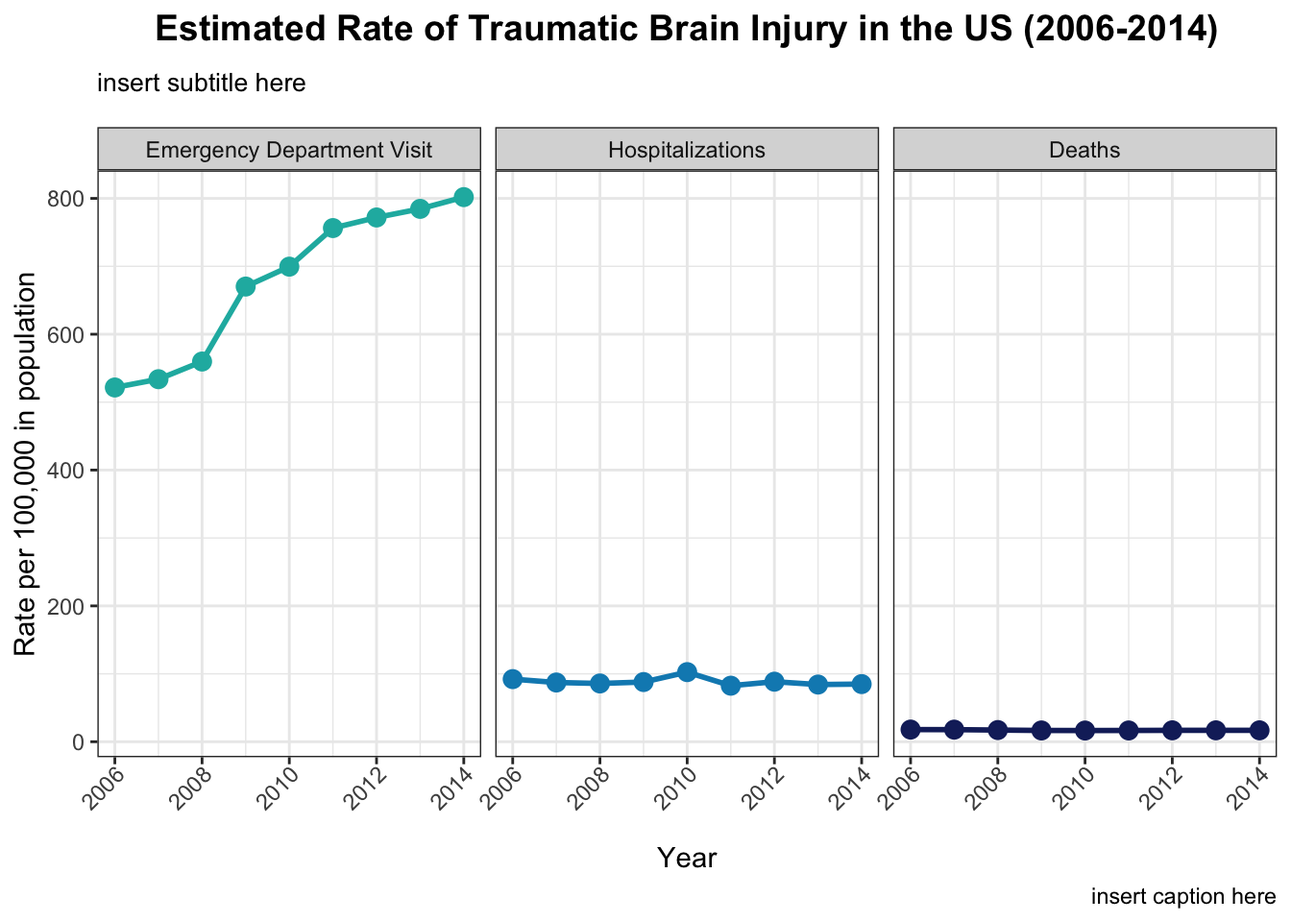
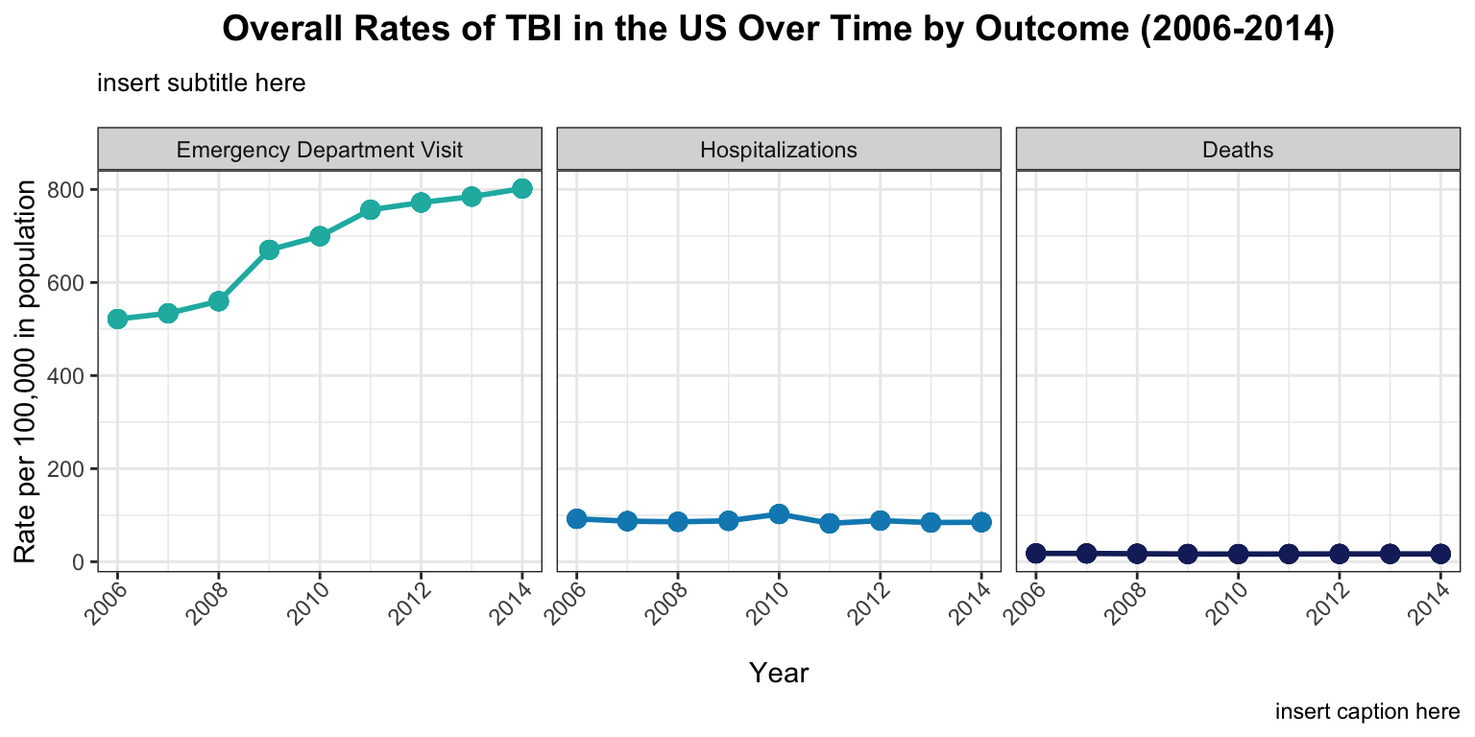
analysis edits v2

diff --git a/_site/example-analysis.html b/_site/example-analysis.html
@@ -150,8 +150,17 @@ pre > code.sourceCode > span > a:first-child::before { text-decoration: underlin
 <div id="quarto-content" class="quarto-container page-columns page-rows-contents page-layout-article page-navbar">
 <!-- sidebar -->
 <!-- margin-sidebar -->
-    <div id="quarto-margin-sidebar" class="sidebar margin-sidebar zindex-bottom">
-        
+    <div id="quarto-margin-sidebar" class="sidebar margin-sidebar">
+        <nav id="TOC" role="doc-toc" class="toc-active">
+    <h2 id="toc-title">On this page</h2>
+   
+  <ul>
+  <li><a href="#question" id="toc-question" class="nav-link active" data-scroll-target="#question"><span style="color:  #2D4947;">Question</span></a></li>
+  <li><a href="#analysis" id="toc-analysis" class="nav-link" data-scroll-target="#analysis"><span style="color:  #2D4947;">Analysis</span></a></li>
+  <li><a href="#summary-of-results" id="toc-summary-of-results" class="nav-link" data-scroll-target="#summary-of-results"><span style="color:  #2D4947;">Summary of Results</span></a></li>
+  <li><a href="#functions-used" id="toc-functions-used" class="nav-link" data-scroll-target="#functions-used"><span style="color:  #2D4947;">Functions Used</span></a></li>
+  </ul>
+</nav>
     </div>
 <!-- main -->
 <main class="content" id="quarto-document-content">
@@ -175,16 +184,18 @@ pre > code.sourceCode > span > a:first-child::before { text-decoration: underlin
 </header>
 
 
-<p><strong><span style="color:  #2D4947;">Question:</span></strong> <em>How has the prevalence of traumatic brain injuries (TBI) changed over time between 2006 and 2014, and how do different mechanisms of injury relate to patient outcomes?</em></p>
-<p><strong><span style="color:  #68A39F;">Audience:</span></strong> The general public who are interested in learning more about the relatively recent history of TBI trends and outcomes .</p>
-<p><strong><span style="color:  #68A39F;">Data Source:</span></strong> This analysis will use data from the Traumatic Brain Injury (TBI) data set posted by the TidyTuesday project from the Data Science Learning Community. This was originally collected to spread awareness about the incidence and causes of brain injury in America. The specific data used in this analysis was sourced from the <a href="https://www.cdc.gov/traumaticbraininjury/pdf/TBI-Surveillance-Report-FINAL_508.pdf">CDC</a>.</p>
-<div class="callout callout-style-default callout-note callout-titled">
+<section id="question" class="level2">
+<h2 class="anchored" data-anchor-id="question"><span style="color:  #2D4947;">Question</span></h2>
+<p><strong>The goal is to have a better understanding of traumatic brain injury (TBI) trends and how different causes lead to different outcomes in certain populations. Specifically, how has the incidence of TBI changed over time between 2006 and 2014? How do different mechanisms of injury relate to patient outcomes, and does this differ by age?</strong></p>
+<p><span style="color:  #68A39F;"><strong>Audience:</strong></span> The general public who are interested in learning more about the relatively recent history of TBI trends and outcomes .</p>
+<p><span style="color:  #68A39F;"><strong>Data Source:</strong></span> This analysis will use data from the Traumatic Brain Injury (TBI) data set posted by the TidyTuesday project from the Data Science Learning Community. This was originally collected to spread awareness about the incidence and causes of brain injury in America. The specific data used in this analysis was sourced from the <a href="https://www.cdc.gov/traumaticbraininjury/pdf/TBI-Surveillance-Report-FINAL_508.pdf">CDC</a>.</p>
+<div class="callout callout-style-default callout-important callout-titled">
 <div class="callout-header d-flex align-content-center">
 <div class="callout-icon-container">
 <i class="callout-icon"></i>
 </div>
 <div class="callout-title-container flex-fill">
-Note
+Important
 </div>
 </div>
 <div class="callout-body-container callout-body">
@@ -196,40 +207,55 @@ Note
 <span id="cb1-2"><a href="#cb1-2" aria-hidden="true" tabindex="-1"></a>tbi_age <span class="ot">&lt;-</span> readr<span class="sc">::</span><span class="fu">read_csv</span>(<span class="st">'https://raw.githubusercontent.com/rfordatascience/tidytuesday/main/data/2020/2020-03-24/tbi_age.csv'</span>)</span>
 <span id="cb1-3"><a href="#cb1-3" aria-hidden="true" tabindex="-1"></a>tbi_year <span class="ot">&lt;-</span> readr<span class="sc">::</span><span class="fu">read_csv</span>(<span class="st">'https://raw.githubusercontent.com/rfordatascience/tidytuesday/main/data/2020/2020-03-24/tbi_year.csv'</span>)</span></code></pre></div><button title="Copy to Clipboard" class="code-copy-button"><i class="bi"></i></button></div>
 </div>
-<p><strong><span style="color:  #2D4947;">Analysis</span></strong></p>
-<p><em>Incidence Over Time</em></p>
+</section>
+<section id="analysis" class="level2">
+<h2 class="anchored" data-anchor-id="analysis"><span style="color:  #2D4947;">Analysis</span></h2>
+<p><span style="color:  #68A39F;"><strong>Incidence Over Time</strong></span></p>
+<div class="callout callout-style-default callout-note callout-titled">
+<div class="callout-header d-flex align-content-center">
+<div class="callout-icon-container">
+<i class="callout-icon"></i>
+</div>
+<div class="callout-title-container flex-fill">
+Note
+</div>
+</div>
+<div class="callout-body-container callout-body">
+<p>For the purposes of this analysis, “outcome” refers to the level of severity (i.e., how much medical attention received or mortality) following a TBI. This corresponds to “Emergency Department Visits”, “Hospitalizations”, and “Deaths” in the data set. “Mechanism of injury” and “cause” will be used interchangeably.</p>
+</div>
+</div>
 <div class="cell">
 <div class="code-copy-outer-scaffold"><div class="sourceCode cell-code" id="cb2"><pre class="sourceCode r code-with-copy"><code class="sourceCode r"><span id="cb2-1"><a href="#cb2-1" aria-hidden="true" tabindex="-1"></a><span class="fu">library</span>(dplyr)</span>
 <span id="cb2-2"><a href="#cb2-2" aria-hidden="true" tabindex="-1"></a><span class="fu">library</span>(tidyr)</span>
-<span id="cb2-3"><a href="#cb2-3" aria-hidden="true" tabindex="-1"></a><span class="fu">library</span>(forcats)</span>
-<span id="cb2-4"><a href="#cb2-4" aria-hidden="true" tabindex="-1"></a></span>
-<span id="cb2-5"><a href="#cb2-5" aria-hidden="true" tabindex="-1"></a><span class="co"># Wrangling data into a separate total rate tibble</span></span>
-<span id="cb2-6"><a href="#cb2-6" aria-hidden="true" tabindex="-1"></a>all_rate_tbi <span class="ot">&lt;-</span> tbi_year <span class="sc">%&gt;%</span></span>
-<span id="cb2-7"><a href="#cb2-7" aria-hidden="true" tabindex="-1"></a>  <span class="fu">filter</span>(injury_mechanism <span class="sc">==</span> <span class="st">"Total"</span>) <span class="sc">%&gt;%</span></span>
-<span id="cb2-8"><a href="#cb2-8" aria-hidden="true" tabindex="-1"></a>  <span class="fu">group_by</span>(year, type) <span class="sc">%&gt;%</span></span>
-<span id="cb2-9"><a href="#cb2-9" aria-hidden="true" tabindex="-1"></a>  <span class="fu">summarise</span>(<span class="at">estimated_rate =</span> rate_est)</span>
-<span id="cb2-10"><a href="#cb2-10" aria-hidden="true" tabindex="-1"></a></span>
-<span id="cb2-11"><a href="#cb2-11" aria-hidden="true" tabindex="-1"></a><span class="co"># Wrangling data into a separate total number tibble (injury mehcanism == "Total" does not have a number_est value)</span></span>
-<span id="cb2-12"><a href="#cb2-12" aria-hidden="true" tabindex="-1"></a>all_number_tbi <span class="ot">&lt;-</span> tbi_year <span class="sc">%&gt;%</span></span>
-<span id="cb2-13"><a href="#cb2-13" aria-hidden="true" tabindex="-1"></a>  <span class="fu">filter</span>(injury_mechanism <span class="sc">!=</span> <span class="st">"Total"</span>) <span class="sc">%&gt;%</span></span>
-<span id="cb2-14"><a href="#cb2-14" aria-hidden="true" tabindex="-1"></a>  <span class="fu">group_by</span>(year, type) <span class="sc">%&gt;%</span></span>
-<span id="cb2-15"><a href="#cb2-15" aria-hidden="true" tabindex="-1"></a>  <span class="fu">summarise</span>(<span class="at">estimated_case_num =</span> <span class="fu">round</span>(<span class="fu">sum</span>(number_est)<span class="sc">/</span><span class="dv">1000</span>, <span class="at">digits =</span> <span class="dv">1</span>))</span>
-<span id="cb2-16"><a href="#cb2-16" aria-hidden="true" tabindex="-1"></a></span>
-<span id="cb2-17"><a href="#cb2-17" aria-hidden="true" tabindex="-1"></a><span class="co"># Joining the two tibbles together</span></span>
-<span id="cb2-18"><a href="#cb2-18" aria-hidden="true" tabindex="-1"></a>all_tbi <span class="ot">&lt;-</span> <span class="fu">left_join</span>(all_rate_tbi, all_number_tbi, <span class="at">by =</span> <span class="fu">c</span>(<span class="st">"year"</span>, <span class="st">"type"</span>))</span>
-<span id="cb2-19"><a href="#cb2-19" aria-hidden="true" tabindex="-1"></a></span>
-<span id="cb2-20"><a href="#cb2-20" aria-hidden="true" tabindex="-1"></a><span class="fu">library</span>(ggplot2)</span>
-<span id="cb2-21"><a href="#cb2-21" aria-hidden="true" tabindex="-1"></a><span class="fu">library</span>(ggtext)</span>
-<span id="cb2-22"><a href="#cb2-22" aria-hidden="true" tabindex="-1"></a></span>
-<span id="cb2-23"><a href="#cb2-23" aria-hidden="true" tabindex="-1"></a><span class="co"># Plotting the incidence of TBI over time</span></span>
-<span id="cb2-24"><a href="#cb2-24" aria-hidden="true" tabindex="-1"></a><span class="fu">ggplot</span>(all_tbi) <span class="sc">+</span></span>
-<span id="cb2-25"><a href="#cb2-25" aria-hidden="true" tabindex="-1"></a>  <span class="fu">geom_point</span>(<span class="fu">aes</span>(<span class="at">x =</span> year, <span class="at">y =</span> estimated_rate, <span class="at">color =</span> type), <span class="at">size =</span> <span class="dv">3</span>) <span class="sc">+</span></span>
-<span id="cb2-26"><a href="#cb2-26" aria-hidden="true" tabindex="-1"></a>  <span class="fu">geom_line</span>(<span class="fu">aes</span>(<span class="at">x =</span> year, <span class="at">y =</span> estimated_rate, <span class="at">color =</span> type), <span class="at">size =</span> <span class="dv">1</span>) <span class="sc">+</span></span>
+<span id="cb2-3"><a href="#cb2-3" aria-hidden="true" tabindex="-1"></a></span>
+<span id="cb2-4"><a href="#cb2-4" aria-hidden="true" tabindex="-1"></a><span class="co"># Wrangling data into rate tibbles</span></span>
+<span id="cb2-5"><a href="#cb2-5" aria-hidden="true" tabindex="-1"></a>all_rate_tbi <span class="ot">&lt;-</span> tbi_year <span class="sc">%&gt;%</span></span>
+<span id="cb2-6"><a href="#cb2-6" aria-hidden="true" tabindex="-1"></a>  <span class="fu">filter</span>(injury_mechanism <span class="sc">==</span> <span class="st">"Total"</span>) <span class="sc">%&gt;%</span></span>
+<span id="cb2-7"><a href="#cb2-7" aria-hidden="true" tabindex="-1"></a>  <span class="fu">group_by</span>(year, type) <span class="sc">%&gt;%</span></span>
+<span id="cb2-8"><a href="#cb2-8" aria-hidden="true" tabindex="-1"></a>  <span class="fu">summarise</span>(<span class="at">total_rate =</span> rate_est)</span>
+<span id="cb2-9"><a href="#cb2-9" aria-hidden="true" tabindex="-1"></a></span>
+<span id="cb2-10"><a href="#cb2-10" aria-hidden="true" tabindex="-1"></a>mech_rate_tbi <span class="ot">&lt;-</span> tbi_year <span class="sc">%&gt;%</span></span>
+<span id="cb2-11"><a href="#cb2-11" aria-hidden="true" tabindex="-1"></a>  <span class="fu">filter</span>(injury_mechanism <span class="sc">!=</span> <span class="st">"Total"</span>) <span class="sc">%&gt;%</span></span>
+<span id="cb2-12"><a href="#cb2-12" aria-hidden="true" tabindex="-1"></a>  <span class="fu">group_by</span>(year, injury_mechanism, type) <span class="sc">%&gt;%</span></span>
+<span id="cb2-13"><a href="#cb2-13" aria-hidden="true" tabindex="-1"></a>  <span class="fu">summarise</span>(<span class="at">mech_rate =</span> rate_est)</span>
+<span id="cb2-14"><a href="#cb2-14" aria-hidden="true" tabindex="-1"></a></span>
+<span id="cb2-15"><a href="#cb2-15" aria-hidden="true" tabindex="-1"></a><span class="co"># Joining the two tibbles together</span></span>
+<span id="cb2-16"><a href="#cb2-16" aria-hidden="true" tabindex="-1"></a>tbi_rates <span class="ot">&lt;-</span> <span class="fu">left_join</span>(mech_rate_tbi, all_rate_tbi, <span class="at">by =</span> <span class="fu">c</span>(<span class="st">"year"</span>, <span class="st">"type"</span>))</span>
+<span id="cb2-17"><a href="#cb2-17" aria-hidden="true" tabindex="-1"></a></span>
+<span id="cb2-18"><a href="#cb2-18" aria-hidden="true" tabindex="-1"></a><span class="fu">library</span>(ggplot2)</span>
+<span id="cb2-19"><a href="#cb2-19" aria-hidden="true" tabindex="-1"></a><span class="fu">library</span>(ggtext)</span>
+<span id="cb2-20"><a href="#cb2-20" aria-hidden="true" tabindex="-1"></a><span class="fu">library</span>(stringr)</span>
+<span id="cb2-21"><a href="#cb2-21" aria-hidden="true" tabindex="-1"></a></span>
+<span id="cb2-22"><a href="#cb2-22" aria-hidden="true" tabindex="-1"></a><span class="co"># Plotting the rate of TBI over time</span></span>
+<span id="cb2-23"><a href="#cb2-23" aria-hidden="true" tabindex="-1"></a><span class="co"># Overall rates by outcome (allows for direct comparison)</span></span>
+<span id="cb2-24"><a href="#cb2-24" aria-hidden="true" tabindex="-1"></a><span class="fu">ggplot</span>(tbi_rates) <span class="sc">+</span></span>
+<span id="cb2-25"><a href="#cb2-25" aria-hidden="true" tabindex="-1"></a>  <span class="fu">geom_point</span>(<span class="fu">aes</span>(<span class="at">x =</span> year, <span class="at">y =</span> total_rate, <span class="at">color =</span> type), <span class="at">size =</span> <span class="dv">3</span>) <span class="sc">+</span></span>
+<span id="cb2-26"><a href="#cb2-26" aria-hidden="true" tabindex="-1"></a>  <span class="fu">geom_line</span>(<span class="fu">aes</span>(<span class="at">x =</span> year, <span class="at">y =</span> total_rate, <span class="at">color =</span> type), <span class="at">size =</span> <span class="dv">1</span>) <span class="sc">+</span></span>
 <span id="cb2-27"><a href="#cb2-27" aria-hidden="true" tabindex="-1"></a>  <span class="fu">scale_color_manual</span>(<span class="at">values =</span> <span class="fu">c</span>(<span class="st">"Emergency Department Visit"</span> <span class="ot">=</span> <span class="st">"#1BB6AFFF"</span>, </span>
 <span id="cb2-28"><a href="#cb2-28" aria-hidden="true" tabindex="-1"></a>                               <span class="st">"Hospitalizations"</span> <span class="ot">=</span> <span class="st">"#088BBEFF"</span>, </span>
 <span id="cb2-29"><a href="#cb2-29" aria-hidden="true" tabindex="-1"></a>                               <span class="st">"Deaths"</span> <span class="ot">=</span> <span class="st">"#172869FF"</span>)) <span class="sc">+</span></span>
 <span id="cb2-30"><a href="#cb2-30" aria-hidden="true" tabindex="-1"></a>  <span class="fu">facet_wrap</span>(<span class="sc">~</span><span class="fu">factor</span>(type, <span class="at">levels =</span> <span class="fu">c</span>(<span class="st">"Emergency Department Visit"</span>, <span class="st">"Hospitalizations"</span>, <span class="st">"Deaths"</span>))) <span class="sc">+</span></span>
-<span id="cb2-31"><a href="#cb2-31" aria-hidden="true" tabindex="-1"></a>  <span class="fu">labs</span>(<span class="at">title =</span> <span class="st">"Estimated Rate of Traumatic Brain Injury in the US (2006-2014)"</span>,</span>
+<span id="cb2-31"><a href="#cb2-31" aria-hidden="true" tabindex="-1"></a>  <span class="fu">labs</span>(<span class="at">title =</span> <span class="st">"Overall Rates of TBI in the US Over Time by Outcome (2006-2014)"</span>,</span>
 <span id="cb2-32"><a href="#cb2-32" aria-hidden="true" tabindex="-1"></a>       <span class="at">subtitle =</span> <span class="st">"insert subtitle here"</span>,</span>
 <span id="cb2-33"><a href="#cb2-33" aria-hidden="true" tabindex="-1"></a>       <span class="at">x =</span> <span class="st">"Year"</span>,</span>
 <span id="cb2-34"><a href="#cb2-34" aria-hidden="true" tabindex="-1"></a>       <span class="at">y =</span> <span class="st">"Rate per 100,000 in population"</span>,</span>
@@ -243,38 +269,76 @@ Note
 <div class="cell-output-display">
 <div>
 <figure class="figure">
-<p><img src="example-analysis_files/figure-html/unnamed-chunk-2-1.png" class="img-fluid figure-img" width="672"></p>
+<p><img src="example-analysis_files/figure-html/unnamed-chunk-2-1.png" class="img-fluid figure-img" width="768"></p>
 </figure>
 </div>
 </div>
-<div class="code-copy-outer-scaffold"><div class="sourceCode cell-code" id="cb3"><pre class="sourceCode r code-with-copy"><code class="sourceCode r"><span id="cb3-1"><a href="#cb3-1" aria-hidden="true" tabindex="-1"></a><span class="fu">ggplot</span>(all_tbi) <span class="sc">+</span></span>
-<span id="cb3-2"><a href="#cb3-2" aria-hidden="true" tabindex="-1"></a>  <span class="fu">geom_point</span>(<span class="fu">aes</span>(<span class="at">x =</span> year, <span class="at">y =</span> estimated_case_num, <span class="at">color =</span> type), <span class="at">size =</span> <span class="dv">3</span>) <span class="sc">+</span></span>
-<span id="cb3-3"><a href="#cb3-3" aria-hidden="true" tabindex="-1"></a>  <span class="fu">geom_line</span>(<span class="fu">aes</span>(<span class="at">x =</span> year, <span class="at">y =</span> estimated_case_num, <span class="at">color =</span> type), <span class="at">size =</span> <span class="dv">1</span>) <span class="sc">+</span></span>
-<span id="cb3-4"><a href="#cb3-4" aria-hidden="true" tabindex="-1"></a>  <span class="fu">scale_color_manual</span>(<span class="at">values =</span> <span class="fu">c</span>(<span class="st">"Emergency Department Visit"</span> <span class="ot">=</span> <span class="st">"#EA7580FF"</span>, </span>
-<span id="cb3-5"><a href="#cb3-5" aria-hidden="true" tabindex="-1"></a>                                <span class="st">"Hospitalizations"</span> <span class="ot">=</span> <span class="st">"#F6A1A5FF"</span>, </span>
-<span id="cb3-6"><a href="#cb3-6" aria-hidden="true" tabindex="-1"></a>                                <span class="st">"Deaths"</span> <span class="ot">=</span> <span class="st">"#F8CD9CFF"</span>)) <span class="sc">+</span></span>
-<span id="cb3-7"><a href="#cb3-7" aria-hidden="true" tabindex="-1"></a>  <span class="fu">facet_wrap</span>(<span class="sc">~</span><span class="fu">factor</span>(type, <span class="at">levels =</span> <span class="fu">c</span>(<span class="st">"Emergency Department Visit"</span>, <span class="st">"Hospitalizations"</span>, <span class="st">"Deaths"</span>))) <span class="sc">+</span></span>
-<span id="cb3-8"><a href="#cb3-8" aria-hidden="true" tabindex="-1"></a>  <span class="fu">labs</span>(<span class="at">title =</span> <span class="st">"Estimated Case Numbers of Traumatic Brain Injury in the US (2006-2014)"</span>,</span>
-<span id="cb3-9"><a href="#cb3-9" aria-hidden="true" tabindex="-1"></a>       <span class="at">subtitle =</span> <span class="st">"insert subtitle here"</span>,</span>
-<span id="cb3-10"><a href="#cb3-10" aria-hidden="true" tabindex="-1"></a>       <span class="at">x =</span> <span class="st">"Year"</span>,</span>
-<span id="cb3-11"><a href="#cb3-11" aria-hidden="true" tabindex="-1"></a>       <span class="at">y =</span> <span class="st">"Number of cases in thousands"</span>,</span>
-<span id="cb3-12"><a href="#cb3-12" aria-hidden="true" tabindex="-1"></a>       <span class="at">caption =</span> <span class="st">"insert caption here"</span>) <span class="sc">+</span></span>
-<span id="cb3-13"><a href="#cb3-13" aria-hidden="true" tabindex="-1"></a>  <span class="fu">theme_bw</span>() <span class="sc">+</span></span>
-<span id="cb3-14"><a href="#cb3-14" aria-hidden="true" tabindex="-1"></a>  <span class="fu">theme</span>(<span class="at">plot.title =</span> <span class="fu">element_text</span>(<span class="at">size =</span> <span class="dv">14</span>, <span class="at">face =</span> <span class="st">"bold"</span>, <span class="at">color =</span> <span class="st">"black"</span>, </span>
-<span id="cb3-15"><a href="#cb3-15" aria-hidden="true" tabindex="-1"></a>                                  <span class="at">hjust =</span> <span class="fl">0.5</span>, <span class="at">margin =</span> <span class="fu">margin</span>(<span class="at">b =</span> <span class="dv">10</span>)),</span>
-<span id="cb3-16"><a href="#cb3-16" aria-hidden="true" tabindex="-1"></a>        <span class="at">axis.text.x =</span> <span class="fu">element_text</span>(<span class="at">angle =</span> <span class="dv">45</span>, <span class="at">hjust =</span> <span class="dv">1</span>, <span class="at">margin =</span> <span class="fu">margin</span>(<span class="at">b =</span> <span class="dv">10</span>)), </span>
-<span id="cb3-17"><a href="#cb3-17" aria-hidden="true" tabindex="-1"></a>        <span class="at">plot.subtitle =</span> <span class="fu">element_textbox_simple</span>(<span class="at">size =</span> <span class="dv">10</span>, <span class="at">hjust =</span> <span class="fl">0.5</span>, <span class="at">margin =</span> <span class="fu">margin</span>(<span class="at">b =</span> <span class="dv">12</span>, <span class="at">unit =</span> <span class="st">"pt"</span>)),</span>
-<span id="cb3-18"><a href="#cb3-18" aria-hidden="true" tabindex="-1"></a>        <span class="at">legend.position =</span> <span class="st">"none"</span>)</span></code></pre></div><button title="Copy to Clipboard" class="code-copy-button"><i class="bi"></i></button></div>
+</div>
+<div class="cell">
+<div class="code-copy-outer-scaffold"><div class="sourceCode cell-code" id="cb3"><pre class="sourceCode r code-with-copy"><code class="sourceCode r"><span id="cb3-1"><a href="#cb3-1" aria-hidden="true" tabindex="-1"></a><span class="co"># Rates by outcome and mechanism (scaled, more detailed view)</span></span>
+<span id="cb3-2"><a href="#cb3-2" aria-hidden="true" tabindex="-1"></a><span class="fu">ggplot</span>(tbi_rates) <span class="sc">+</span></span>
+<span id="cb3-3"><a href="#cb3-3" aria-hidden="true" tabindex="-1"></a>  <span class="fu">geom_point</span>(<span class="fu">aes</span>(<span class="at">x =</span> year, <span class="at">y =</span> total_rate, <span class="at">color =</span> <span class="st">"All"</span>), <span class="at">size =</span> <span class="dv">3</span>, <span class="at">alpha =</span> <span class="fl">0.5</span>) <span class="sc">+</span></span>
+<span id="cb3-4"><a href="#cb3-4" aria-hidden="true" tabindex="-1"></a>  <span class="fu">geom_line</span>(<span class="fu">aes</span>(<span class="at">x =</span> year, <span class="at">y =</span> total_rate, <span class="at">color =</span> <span class="st">"All"</span>), <span class="at">size =</span> <span class="dv">1</span>, <span class="at">alpha =</span> <span class="fl">0.5</span>) <span class="sc">+</span></span>
+<span id="cb3-5"><a href="#cb3-5" aria-hidden="true" tabindex="-1"></a>  <span class="fu">geom_point</span>(<span class="fu">aes</span>(<span class="at">x =</span> year, <span class="at">y =</span> mech_rate, <span class="at">color =</span> injury_mechanism), <span class="at">size =</span> <span class="dv">2</span>, <span class="at">alpha =</span> <span class="fl">0.5</span>) <span class="sc">+</span></span>
+<span id="cb3-6"><a href="#cb3-6" aria-hidden="true" tabindex="-1"></a>  <span class="fu">geom_line</span>(<span class="fu">aes</span>(<span class="at">x =</span> year, <span class="at">y =</span> mech_rate, <span class="at">color =</span> injury_mechanism), <span class="at">size =</span> <span class="fl">0.5</span>, <span class="at">alpha =</span> <span class="fl">0.5</span>) <span class="sc">+</span></span>
+<span id="cb3-7"><a href="#cb3-7" aria-hidden="true" tabindex="-1"></a>  <span class="fu">facet_wrap</span>(<span class="sc">~</span><span class="fu">factor</span>(type, <span class="at">levels =</span> <span class="fu">c</span>(<span class="st">"Emergency Department Visit"</span>, <span class="st">"Hospitalizations"</span>, <span class="st">"Deaths"</span>)),</span>
+<span id="cb3-8"><a href="#cb3-8" aria-hidden="true" tabindex="-1"></a>             <span class="at">labeller =</span> <span class="fu">label_wrap_gen</span>(<span class="at">width =</span> <span class="dv">25</span>),</span>
+<span id="cb3-9"><a href="#cb3-9" aria-hidden="true" tabindex="-1"></a>             <span class="at">scales =</span> <span class="st">"free_y"</span>) <span class="sc">+</span></span>
+<span id="cb3-10"><a href="#cb3-10" aria-hidden="true" tabindex="-1"></a>  <span class="fu">labs</span>(<span class="at">title =</span> <span class="st">"Rates of TBI in the US Over Time (2006-2014)"</span>,</span>
+<span id="cb3-11"><a href="#cb3-11" aria-hidden="true" tabindex="-1"></a>       <span class="at">subtitle =</span> <span class="st">"Plots faceted by outcome and further broken down by mechanism of injury to visualize potential trends specific to each outcome"</span>,</span>
+<span id="cb3-12"><a href="#cb3-12" aria-hidden="true" tabindex="-1"></a>       <span class="at">x =</span> <span class="st">"Year"</span>,</span>
+<span id="cb3-13"><a href="#cb3-13" aria-hidden="true" tabindex="-1"></a>       <span class="at">y =</span> <span class="st">"Rate per 100,000 in population"</span>,</span>
+<span id="cb3-14"><a href="#cb3-14" aria-hidden="true" tabindex="-1"></a>       <span class="at">caption =</span> <span class="st">"Note: Facets individually scaled to help with visualizing</span><span class="sc">\n</span><span class="st">specific differences in mechanisims of injury"</span>,</span>
+<span id="cb3-15"><a href="#cb3-15" aria-hidden="true" tabindex="-1"></a>       <span class="at">color =</span> <span class="st">"Mechanism"</span>) <span class="sc">+</span></span>
+<span id="cb3-16"><a href="#cb3-16" aria-hidden="true" tabindex="-1"></a>  <span class="fu">theme_bw</span>() <span class="sc">+</span></span>
+<span id="cb3-17"><a href="#cb3-17" aria-hidden="true" tabindex="-1"></a>  <span class="fu">theme</span>(<span class="at">plot.title =</span> <span class="fu">element_text</span>(<span class="at">size =</span> <span class="dv">12</span>, <span class="at">face =</span> <span class="st">"bold"</span>, <span class="at">color =</span> <span class="st">"black"</span>, </span>
+<span id="cb3-18"><a href="#cb3-18" aria-hidden="true" tabindex="-1"></a>                                  <span class="at">hjust =</span> <span class="fl">0.5</span>, <span class="at">margin =</span> <span class="fu">margin</span>(<span class="at">b =</span> <span class="dv">10</span>)),</span>
+<span id="cb3-19"><a href="#cb3-19" aria-hidden="true" tabindex="-1"></a>        <span class="at">axis.text.x =</span> <span class="fu">element_text</span>(<span class="at">angle =</span> <span class="dv">45</span>, <span class="at">hjust =</span> <span class="dv">1</span>, <span class="at">margin =</span> <span class="fu">margin</span>(<span class="at">b =</span> <span class="dv">10</span>)), </span>
+<span id="cb3-20"><a href="#cb3-20" aria-hidden="true" tabindex="-1"></a>        <span class="at">plot.subtitle =</span> <span class="fu">element_text</span>(<span class="at">size =</span> <span class="dv">8</span>, <span class="at">hjust =</span> <span class="fl">0.5</span>, <span class="at">margin =</span> <span class="fu">margin</span>(<span class="at">b =</span> <span class="dv">12</span>, <span class="at">unit =</span> <span class="st">"pt"</span>)),</span>
+<span id="cb3-21"><a href="#cb3-21" aria-hidden="true" tabindex="-1"></a>        <span class="at">plot.caption =</span> <span class="fu">element_text</span>(<span class="at">size =</span> <span class="dv">6</span>),</span>
+<span id="cb3-22"><a href="#cb3-22" aria-hidden="true" tabindex="-1"></a>        <span class="at">legend.position =</span> <span class="st">"right"</span>,</span>
+<span id="cb3-23"><a href="#cb3-23" aria-hidden="true" tabindex="-1"></a>        <span class="at">legend.title =</span> <span class="fu">element_text</span>(<span class="at">size =</span> <span class="dv">8</span>, <span class="at">face =</span> <span class="st">"bold"</span>, <span class="at">margin =</span> <span class="fu">margin</span>(<span class="at">r =</span> <span class="dv">5</span>)),</span>
+<span id="cb3-24"><a href="#cb3-24" aria-hidden="true" tabindex="-1"></a>        <span class="at">legend.text =</span> <span class="fu">element_text</span>(<span class="at">size =</span> <span class="dv">6</span>, <span class="at">margin =</span> <span class="fu">margin</span>(<span class="at">r =</span> <span class="dv">5</span>)),</span>
+<span id="cb3-25"><a href="#cb3-25" aria-hidden="true" tabindex="-1"></a>        <span class="at">legend.key.size =</span> <span class="fu">unit</span>(<span class="fl">2.5</span>, <span class="st">"lines"</span>)) <span class="sc">+</span></span>
+<span id="cb3-26"><a href="#cb3-26" aria-hidden="true" tabindex="-1"></a>  <span class="fu">scale_color_manual</span>(<span class="at">labels =</span> <span class="cf">function</span>(x) <span class="fu">str_wrap</span>(x, <span class="at">width =</span> <span class="dv">10</span>), </span>
+<span id="cb3-27"><a href="#cb3-27" aria-hidden="true" tabindex="-1"></a>                     <span class="at">values =</span> <span class="fu">c</span>(<span class="st">"All"</span> <span class="ot">=</span> <span class="st">"black"</span>,</span>
+<span id="cb3-28"><a href="#cb3-28" aria-hidden="true" tabindex="-1"></a>                                <span class="st">"Assault"</span> <span class="ot">=</span> <span class="st">"#A40000FF"</span>,</span>
+<span id="cb3-29"><a href="#cb3-29" aria-hidden="true" tabindex="-1"></a>                                <span class="st">"Intentional self-harm"</span> <span class="ot">=</span> <span class="st">"#16317DFF"</span>,</span>
+<span id="cb3-30"><a href="#cb3-30" aria-hidden="true" tabindex="-1"></a>                                <span class="st">"Motor vehicle crashes"</span> <span class="ot">=</span> <span class="st">"#007E2FFF"</span>,</span>
+<span id="cb3-31"><a href="#cb3-31" aria-hidden="true" tabindex="-1"></a>                                <span class="st">"Other or no mechanism specified"</span> <span class="ot">=</span> <span class="st">"#FFCD12FF"</span>,</span>
+<span id="cb3-32"><a href="#cb3-32" aria-hidden="true" tabindex="-1"></a>                                <span class="st">"Other unintentional injury, mechanism unspecified"</span> <span class="ot">=</span> <span class="st">"#B86092FF"</span>,</span>
+<span id="cb3-33"><a href="#cb3-33" aria-hidden="true" tabindex="-1"></a>                                <span class="st">"Unintentional falls"</span> <span class="ot">=</span> <span class="st">"#721B3EFF"</span>,</span>
+<span id="cb3-34"><a href="#cb3-34" aria-hidden="true" tabindex="-1"></a>                                <span class="st">"Unintentionally struck by or against an object"</span> <span class="ot">=</span> <span class="st">"#00B7A7FF"</span>),</span>
+<span id="cb3-35"><a href="#cb3-35" aria-hidden="true" tabindex="-1"></a>                     <span class="at">limits =</span> <span class="fu">c</span>(<span class="st">"All"</span>, </span>
+<span id="cb3-36"><a href="#cb3-36" aria-hidden="true" tabindex="-1"></a>                                <span class="st">"Assault"</span>, </span>
+<span id="cb3-37"><a href="#cb3-37" aria-hidden="true" tabindex="-1"></a>                                <span class="st">"Intentional self-harm"</span>, </span>
+<span id="cb3-38"><a href="#cb3-38" aria-hidden="true" tabindex="-1"></a>                                <span class="st">"Motor vehicle crashes"</span>,</span>
+<span id="cb3-39"><a href="#cb3-39" aria-hidden="true" tabindex="-1"></a>                                <span class="st">"Unintentional falls"</span>,</span>
+<span id="cb3-40"><a href="#cb3-40" aria-hidden="true" tabindex="-1"></a>                                <span class="st">"Unintentionally struck by or against an object"</span>,                                </span>
+<span id="cb3-41"><a href="#cb3-41" aria-hidden="true" tabindex="-1"></a>                                <span class="st">"Other or no mechanism specified"</span>,  </span>
+<span id="cb3-42"><a href="#cb3-42" aria-hidden="true" tabindex="-1"></a>                                <span class="st">"Other unintentional injury, mechanism unspecified"</span>))</span></code></pre></div><button title="Copy to Clipboard" class="code-copy-button"><i class="bi"></i></button></div>
 <div class="cell-output-display">
 <div>
 <figure class="figure">
-<p><img src="example-analysis_files/figure-html/unnamed-chunk-2-2.png" class="img-fluid figure-img" width="672"></p>
+<p><img src="example-analysis_files/figure-html/unnamed-chunk-3-1.png" class="img-fluid figure-img" width="960"></p>
 </figure>
 </div>
 </div>
 </div>
+</section>
+<section id="summary-of-results" class="level2">
+<h2 class="anchored" data-anchor-id="summary-of-results"><span style="color:  #2D4947;">Summary of Results</span></h2>
+<p>*4-6 sentence paragraph to go here</p>
+</section>
+<section id="functions-used" class="level2">
+<h2 class="anchored" data-anchor-id="functions-used"><span style="color:  #2D4947;">Functions Used</span></h2>
+<ul>
+<li><strong>dplyr</strong>: <code>filter</code>, <code>group_by</code>, <code>summarise</code>, <code>left_join</code></li>
+<li><strong>ggplot2</strong>: <code>ggplot</code>, <code>geom_point</code>, <code>geom_line</code>, <code>scale_color_manual</code>, <code>facet_wrap</code>, <code>labs</code>, <code>theme_bw</code>, <code>theme</code></li>
+</ul>
 
 
+</section>
 
 </main> <!-- /main -->
 <script id="quarto-html-after-body" type="application/javascript">
